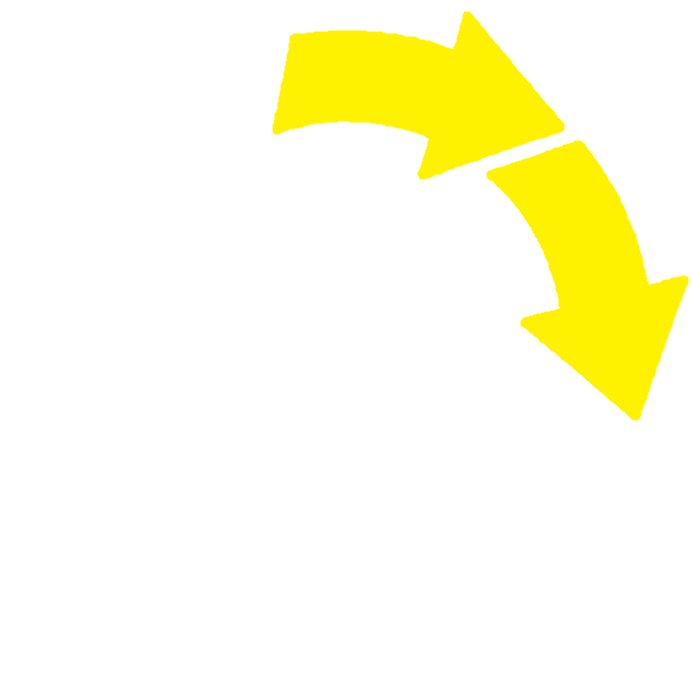
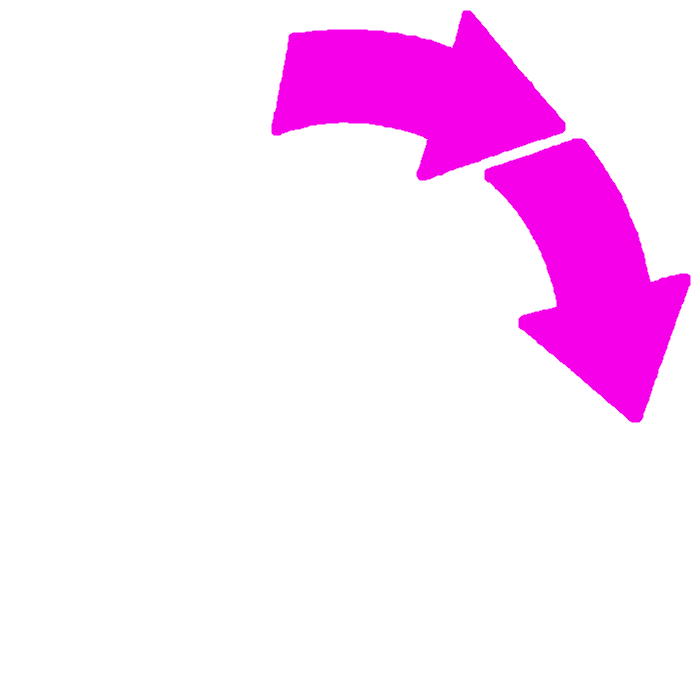
ローテーションボタンの変更

Changed region(s): [[0.3945, 0.0, 1.0, 0.6195]]

diff --git a/JavaScript/collective_script.js b/JavaScript/collective_script.js
@@ -598,10 +598,10 @@ function draw(rota) {
 }
 const rotation_images = [
   '../Picture/サイクル_1.png',
-  '../Picture/light_blue_1.png',
-  '../Picture/light_green_1.png',
-  '../Picture/pink_1.png',
-  '../Picture/purple_1.png',
+  '../Picture/サイクル_2.png',
+  '../Picture/サイクル_3.png',
+  '../Picture/サイクル_4.png',
+  '../Picture/サイクル_5.png',
   '../Picture/サイクル_6.png',
 ];
 //ローテーションボタンを押されたら
